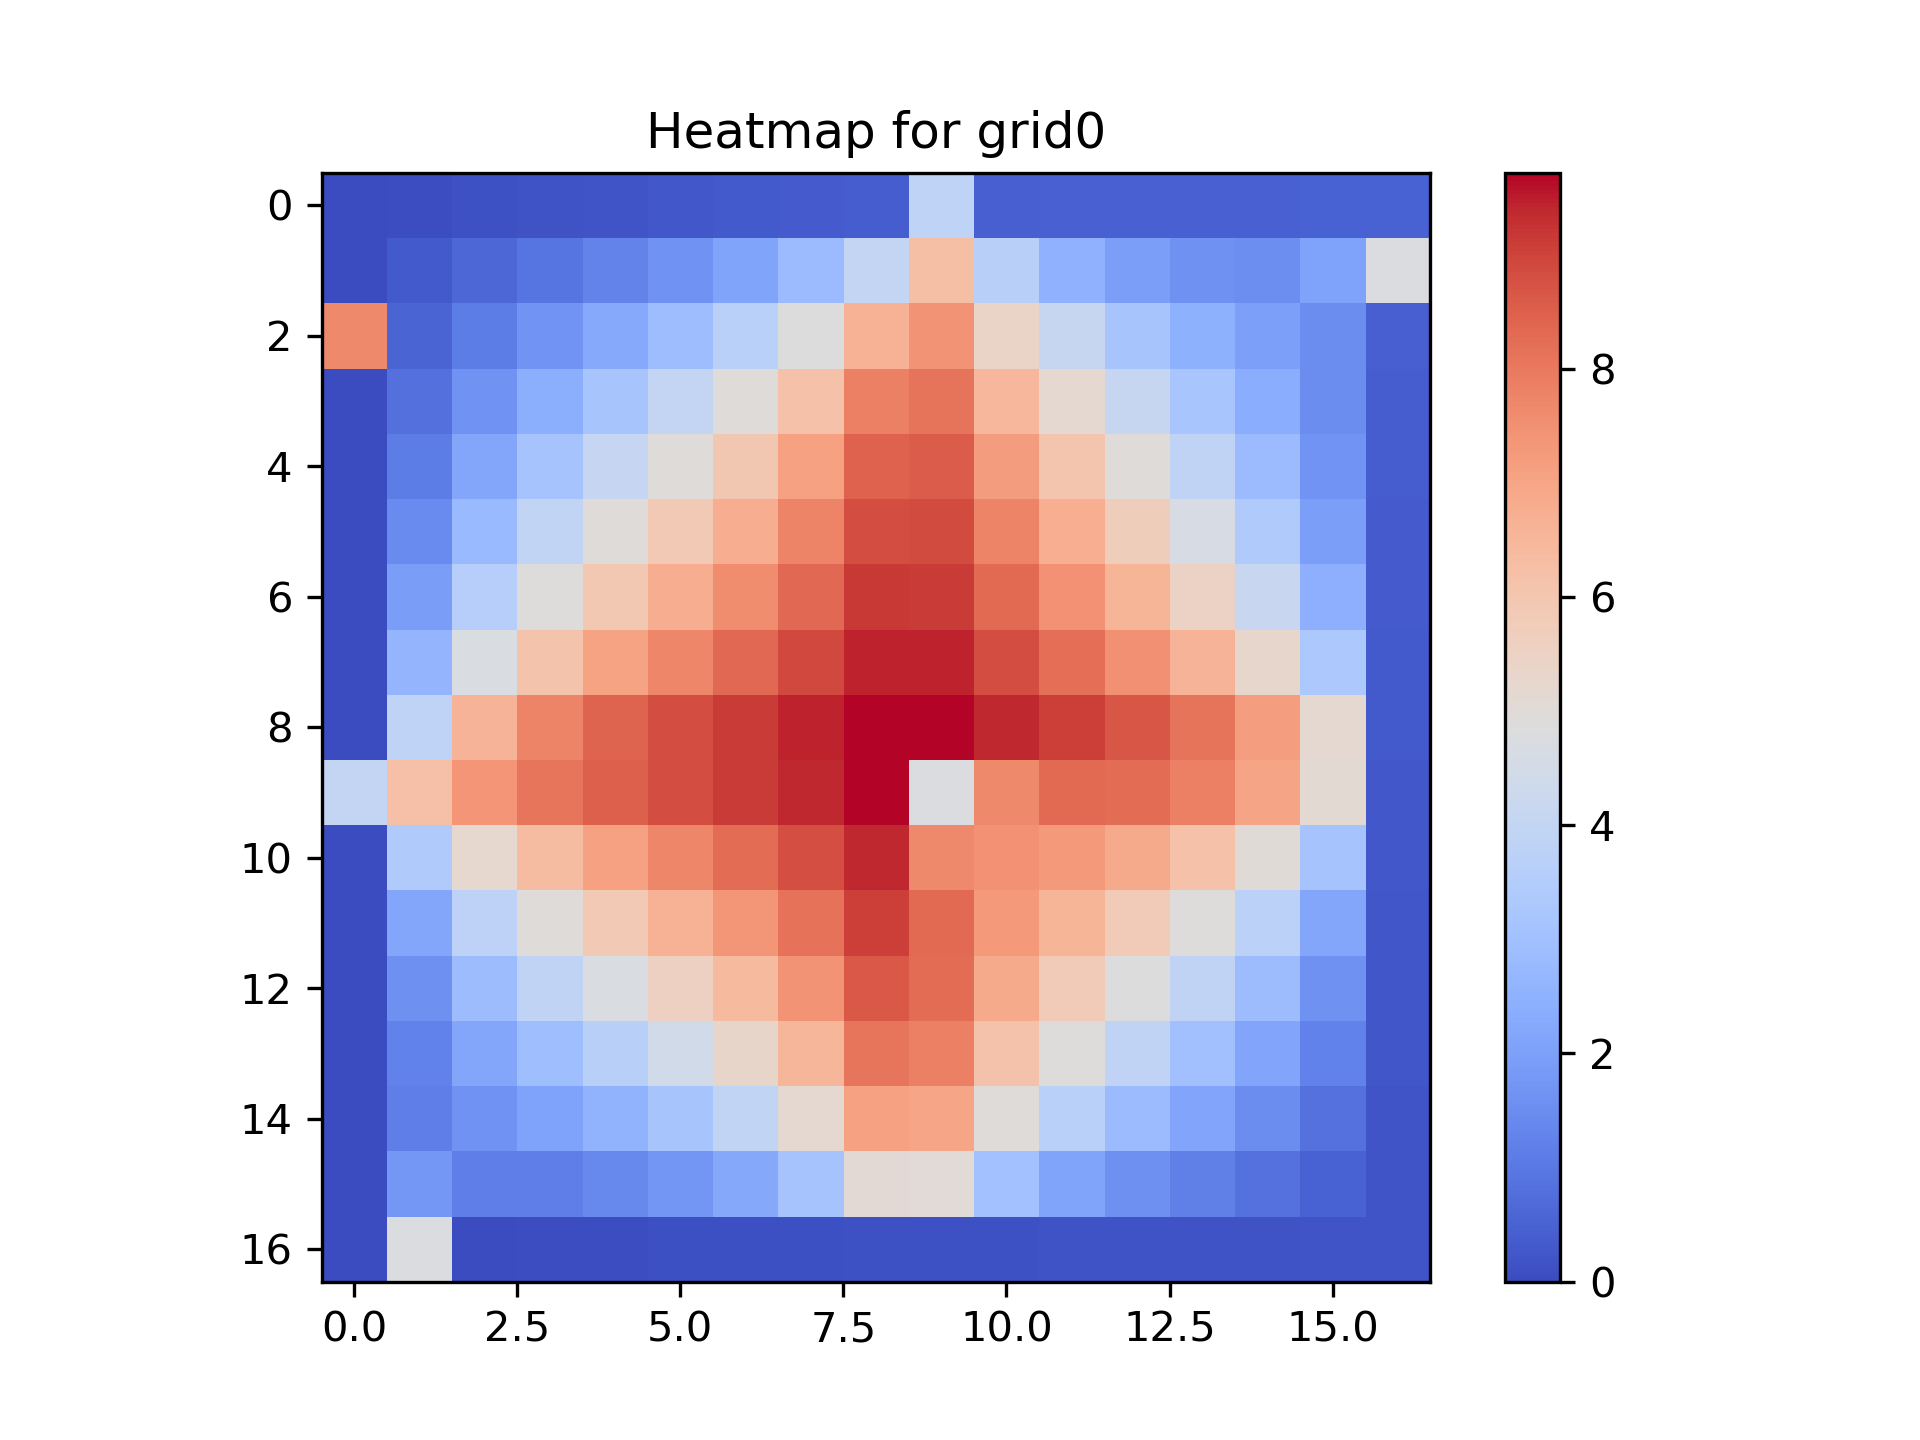
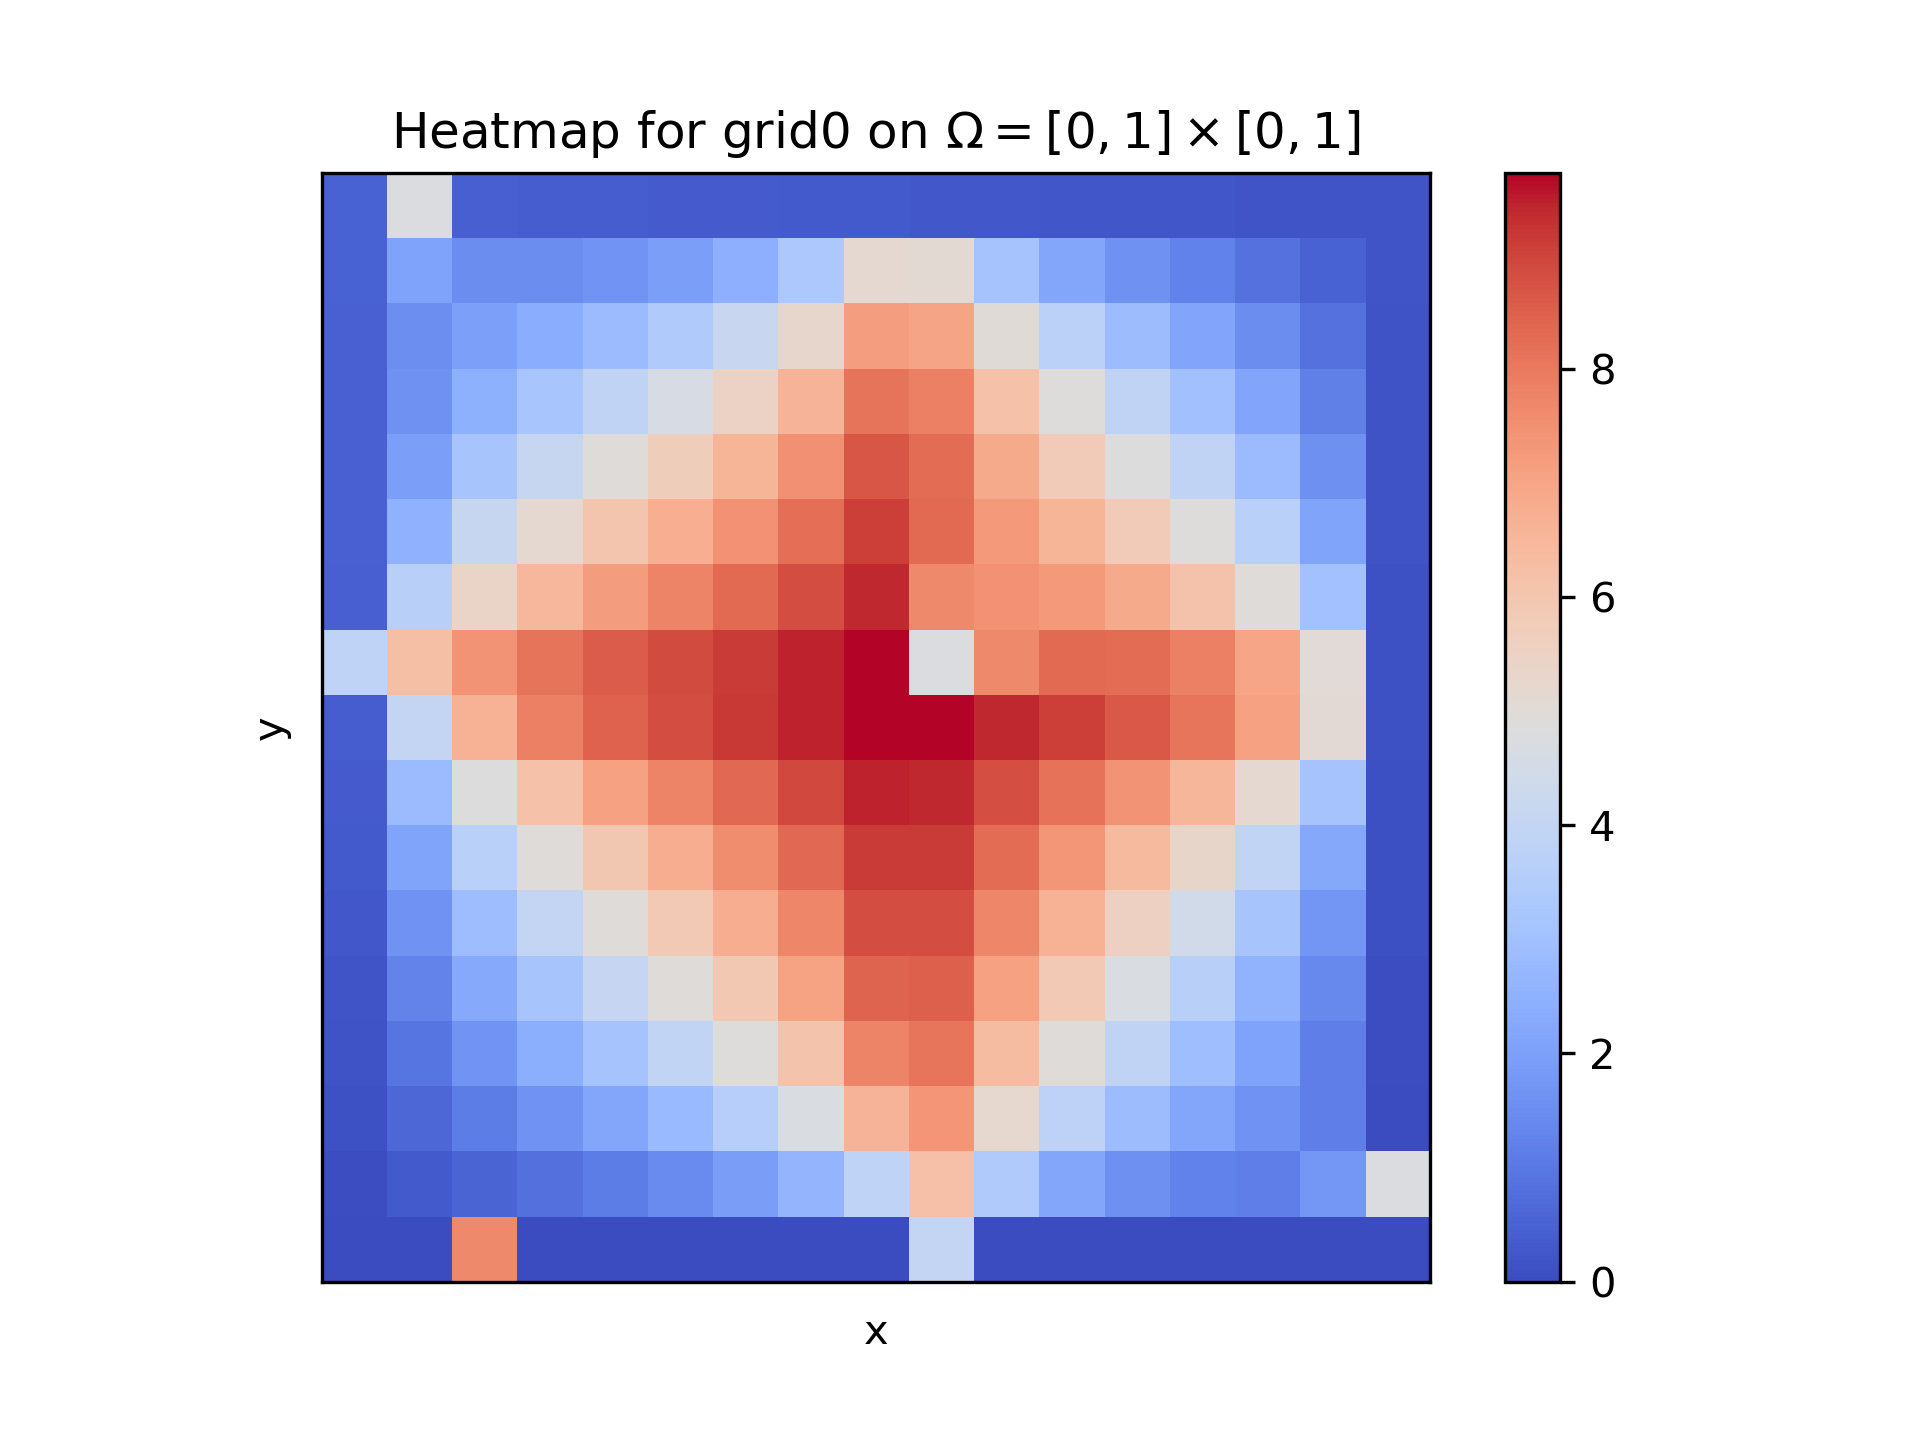
isend and irecv dont work, everything else works

diff --git a/hw3/q1/jacobi.c b/hw3/q1/jacobi.c
@@ -51,9 +51,6 @@ void PutGet_activeSync_2d(double x[][maxn], int nx,
 		int nbrleft, int nbrright, int nbrup, int nbrdown, 
 		MPI_Comm comm){
 	
-	int rank;
-	MPI_Comm_rank(comm, &rank);
-	MPI_Comm newcomm;
 	MPI_Datatype vect;
 
 	int col_len = e_x+1 - s_x;
@@ -62,22 +59,28 @@ void PutGet_activeSync_2d(double x[][maxn], int nx,
 	MPI_Type_vector(col_len, 1, nx+2, MPI_DOUBLE, &vect);
 	MPI_Type_commit(&vect);
 		
-	MPI_Group local_group;
-	MPI_Comm_group(comm, &local_group);
+	int nbrs[4] = {nbrleft, nbrright, nbrup, nbrdown};
+	int group_size = 4;
+	int valid_nbrs[4];
+	int num_valid_nbrs = 0;
+	for (int i=0; i<4; i++){
+		if (nbrs[i] != MPI_PROC_NULL){
+			valid_nbrs[num_valid_nbrs] = nbrs[i];	
+			num_valid_nbrs++;
+		}
+	}
 
-	//int group_ranks[5] = {rank, nbrup, nbrdown, nbrleft, nbrright};
-	//MPI_Group_incl(local_group, 5, group_ranks, local_group);
-
-//	MPI_Comm_split(comm, colour, 0, &newcomm);
-//	MPI_Comm_rank(newcomm, &nrank);
-//  	MPI_Comm_size(newcomm, &nsize);
+	MPI_Group nbr_group;
+	MPI_Group world_group;
+	MPI_Comm_group(comm, &world_group);
+	MPI_Group_incl(world_group, num_valid_nbrs, valid_nbrs, &nbr_group);
 
 	MPI_Win win;
 	MPI_Win_create(x, (nx+2)*(nx+2) * sizeof(double), sizeof(double), MPI_INFO_NULL, comm, &win);
 
-	MPI_Win_post(local_group, 0, win);
-	MPI_Win_start(local_group, 0, win);
-	
+	MPI_Win_post(nbr_group, 0, win);
+	MPI_Win_start(nbr_group, 0, win);
+
 	MPI_Put(&x[s_x][s_y], row_len, MPI_DOUBLE, nbrdown , (s_x  )*(nx+2) + s_y  , row_len, MPI_DOUBLE, win);
 	MPI_Put(&x[s_x][e_y], 1      , vect      , nbrright, (s_x  )*(nx+2) + e_y  , 1      , vect      , win);
 	MPI_Put(&x[s_x][s_y], 1      , vect      , nbrleft , (s_x  )*(nx+2) + s_y  , 1      , vect      , win);
@@ -86,6 +89,8 @@ void PutGet_activeSync_2d(double x[][maxn], int nx,
 	MPI_Win_complete(win);
 	MPI_Win_wait(win);
 
+	MPI_Group_free(&nbr_group);
+	MPI_Group_free(&world_group);
 	MPI_Type_free(&vect);
 	MPI_Win_free(&win);
 }
@@ -95,81 +100,24 @@ void Isend_Irecv_2d(double x[][maxn], int nx,
 		int nbrleft, int nbrright, int nbrup, int nbrdown, 
 		MPI_Comm comm){
 
-	MPI_Request reqs[8];
-	MPI_Datatype vect;
-	
 	int col_len = e_x+1 - s_x;
 	int row_len = e_y+1 - s_y;
-	MPI_Type_vector(col_len, 1, nx+2, MPI_DOUBLE, &vect);
+
+	MPI_Request reqs[8];
+	MPI_Datatype vect;
+	MPI_Type_vector(row_len, 1, nx+2, MPI_DOUBLE, &vect);
 	MPI_Type_commit(&vect);
 
-	MPI_Irecv(&x[s_x][s_y-1], row_len, MPI_DOUBLE, nbrdown , 0, comm, &reqs[0]);
-	MPI_Irecv(&x[s_x-1][s_y], 1      , vect      , nbrleft , 1, comm, &reqs[1]);
-	MPI_Irecv(&x[e_x+1][s_y], 1      , vect      , nbrright, 2, comm, &reqs[2]);
-	MPI_Irecv(&x[s_x][e_y+1], row_len, MPI_DOUBLE, nbrup   , 3, comm, &reqs[3]);
+	MPI_Isend(&x[s_x][e_y], 1      , vect      , nbrup   , 0, comm, &reqs[7]);
+	MPI_Isend(&x[e_x][s_y], col_len, MPI_DOUBLE, nbrright, 1, comm, &reqs[6]);
+	MPI_Isend(&x[s_x][s_y], col_len, MPI_DOUBLE, nbrleft , 2, comm, &reqs[5]);
+	MPI_Isend(&x[s_x][s_y], 1      , vect      , nbrdown , 3, comm, &reqs[4]);
 
-	MPI_Isend(&x[s_x][e_y], row_len, MPI_DOUBLE, nbrup   , 0, comm, &reqs[7]);
-	MPI_Isend(&x[e_x][s_y], 1      , vect      , nbrright, 1, comm, &reqs[6]);
-	MPI_Isend(&x[s_x][s_y], 1      , vect      , nbrleft , 2, comm, &reqs[5]);
-	MPI_Isend(&x[s_x][s_y], row_len, MPI_DOUBLE, nbrdown , 3, comm, &reqs[4]);
-
+	MPI_Irecv(&x[s_x][s_y-1], 1      , vect      , nbrdown , 0, comm, &reqs[0]);
+	MPI_Irecv(&x[s_x-1][s_y], col_len, MPI_DOUBLE, nbrleft, 1, comm, &reqs[1]);
+	MPI_Irecv(&x[e_x+1][s_y], col_len, MPI_DOUBLE, nbrright , 2, comm, &reqs[2]);
+	MPI_Irecv(&x[s_x][e_y+1], 1      , vect      , nbrup   , 3, comm, &reqs[3]);
 
 	MPI_Waitall(8, reqs, MPI_STATUSES_IGNORE);
 	MPI_Type_free(&vect);
 }
-
-
-
-void Sendrecv_2d(double x[][maxn], int nx, 
-		int s_x, int e_x, int s_y, int e_y ,
-		int nbrleft, int nbrright, int nbrup, int nbrdown, 
-		MPI_Comm comm){
-	
-	int rank;
-	MPI_Comm_rank(comm, &rank);	
-
-	int row_len = e_x + 1 - s_x;
-	int col_len = e_y + 1 - s_y;
-
-	MPI_Datatype vect;
-	MPI_Type_vector(row_len, 1, maxn, MPI_DOUBLE, &vect);
-	MPI_Type_commit(&vect);
-	
-	
-	/*
-	int MPI_Sendrecv(const void *sendbuf, int sendcount, MPI_Datatype sendtype,
-                 int dest, int sendtag,
-                 void *recvbuf, int recvcount, MPI_Datatype recvtype,
-                 int source, int recvtag,
-				 MPI_Comm comm, MPI_Status * status)
-	*/
-
-	// to left
-	MPI_Sendrecv(&x[s_x  ][s_y], 1, vect,
-				 nbrleft, 0, 
-		         &x[s_x-1][s_y], 1, vect,
-				 rank, 0, 
-		         comm, MPI_STATUS_IGNORE);
-	// to right
-	MPI_Sendrecv(&x[e_x  ][s_y], 1, vect,
-				 nbrright , 1,
-		         &x[s_x+1][s_y], 1, vect,
-				 rank, 1,
-     		     comm, MPI_STATUS_IGNORE);
-
-	MPI_Type_free(&vect);
-	
-	// to top
-	MPI_Sendrecv(&x[s_x][s_y  ], row_len, MPI_DOUBLE,
-				 nbrup  , 2, 
-		         &x[s_x][s_y-1], row_len, MPI_DOUBLE,
-				 rank, 2,
-		         comm, MPI_STATUS_IGNORE);
-	// send to bottom
-	MPI_Sendrecv(&x[e_x][s_y  ], row_len, MPI_DOUBLE,
-				 nbrdown, 3,
-		         &x[s_x][s_y+1], row_len, MPI_DOUBLE,
-				 rank, 3,
-     		     comm, MPI_STATUS_IGNORE);
-}
-

diff --git a/hw3/q1/plotting.py b/hw3/q1/plotting.py
@@ -2,25 +2,33 @@ import numpy as np
 import matplotlib.pyplot as plt
 import os
 
-# Ensure output directory exists
-os.makedirs("./plots", exist_ok=True)
-
-# Plot computed grids
+# plot computed grids
 for i in range(3):
-    grid = np.loadtxt(f"./grids/grid{i}.txt")
-    fig, ax = plt.subplots()
-    heatmap = ax.imshow(grid, cmap='coolwarm')
-    plt.colorbar(heatmap, label='')
-    ax.set_title(f"Heatmap for grid{i}")
-    plt.savefig(f"./plots/heatmap_plot{i}.png", dpi=300)
-    plt.close(fig)
+	grid = np.loadtxt(f"./grids/grid{i}.txt")
+	fig, ax = plt.subplots()
+	heatmap = ax.imshow(grid, cmap='coolwarm')
+	plt.colorbar(heatmap, label='')
+	ax.set_title(rf"Heatmap for grid{i} on $\Omega = [0,1] \times [0,1]$")
+	ax.set_xticks([])
+	ax.set_yticks([])
+	ax.set_xlabel("x")
+	ax.set_ylabel("y")
+	
+	plt.savefig(f"./plots/heatmap_plot{i}.png", dpi=300)
+	plt.close(fig)
 
-# Plot analytic solution
+# plot analytic solution
 analytic_grid = np.loadtxt("./grids/analytic_grid.txt")
 fig, ax = plt.subplots()
 heatmap = ax.imshow(analytic_grid, cmap='coolwarm')
 plt.colorbar(heatmap, label='')
-ax.set_title("Analytic Solution Heatmap")
+ax.set_title(r"Analytic Solution Heatmap on $\Omega = [0,1] \times [0,1]$")
+ax.set_xticks([])
+ax.set_yticks([])
+ax.set_xlabel("x")
+ax.set_ylabel("y")
+	
+
 plt.savefig("./plots/analytic_heatmap_plot.png", dpi=300)
 plt.close(fig)
 

diff --git a/hw3/q1/main.c b/hw3/q1/main.c
@@ -26,12 +26,8 @@ int main(int argc, char **argv){
 	int namelen;
 
 	// picks out which message passing functions to use
-	int mode = 1;
+	int mode = 0;
 	
-	//char save_filename[32];
-	//snprintf(save_filename, sizeof(save_filename), "./grids/grid%d.txt", mode);
-	//printf("Filename: %s\n", save_filename);
-
 	MPI_Init(&argc, &argv);
 	MPI_Comm_rank(MPI_COMM_WORLD, &myid);
 	MPI_Comm_size(MPI_COMM_WORLD, &nprocs);

diff --git a/hw3/q1/tools.c b/hw3/q1/tools.c
@@ -242,8 +242,8 @@ void write_grid(double grid[][maxn], char* file_name, int nx){
         printf("Error opening file!\n");
     }
 
-    for (int i=0; i<nx+2; i++){
-        for (int j=0; j<nx+2; j++){
+	for (int j=nx+2-1; j>=0; j--){
+		for (int i=0; i<nx+2; i++){
             fprintf(fp, "%lf ", grid[i][j]);
         }
         fprintf(fp, "\n");
